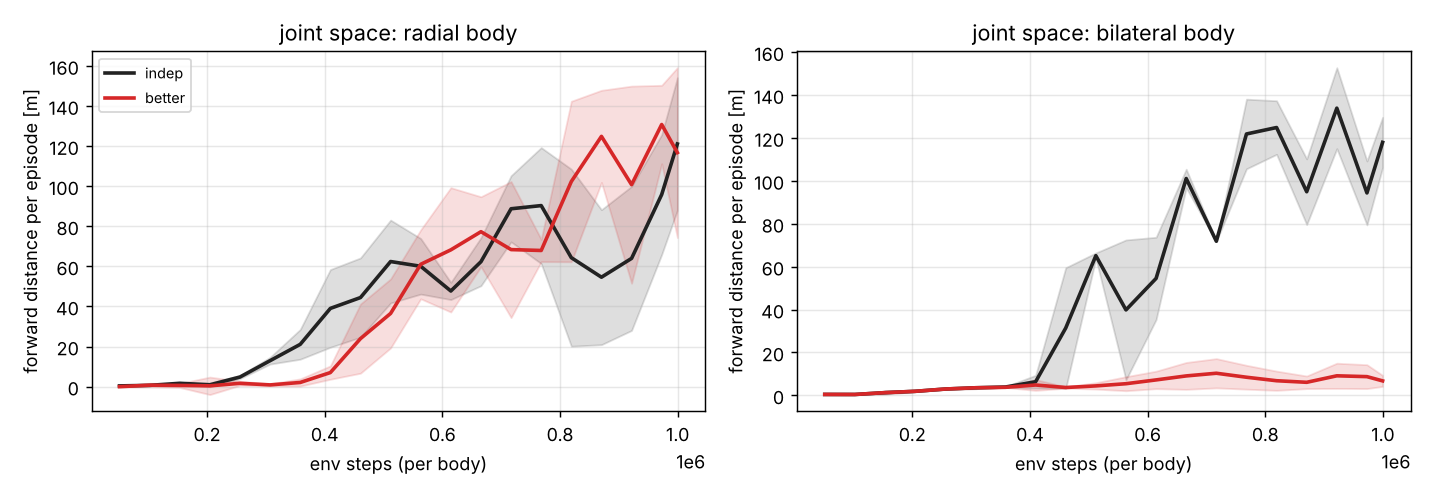
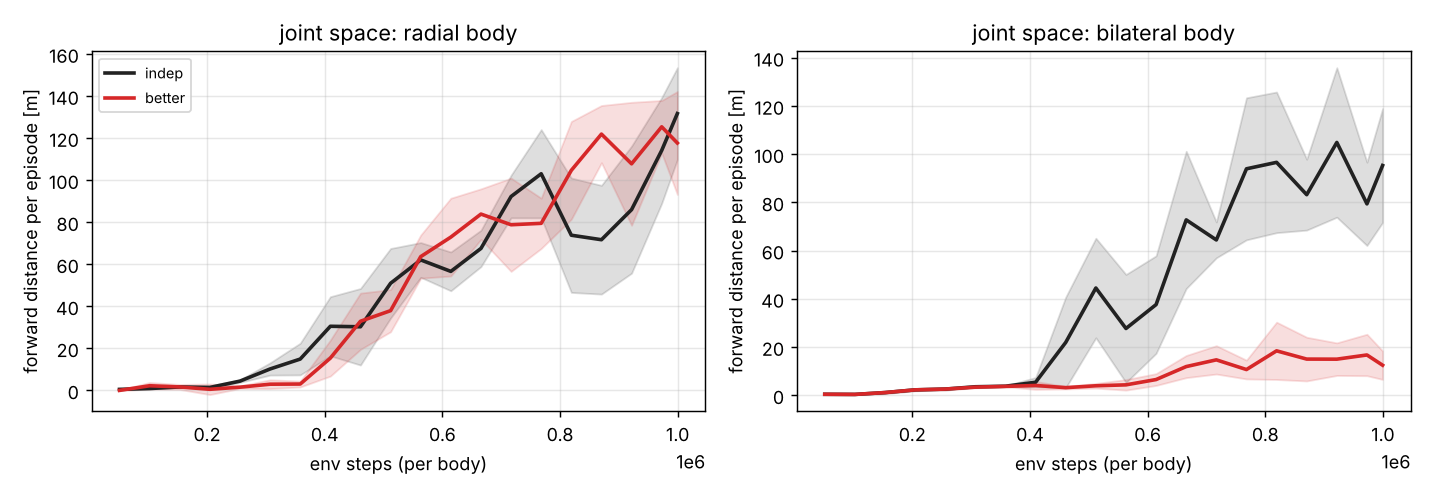
Add remaining joint-space control runs to cross-morphology results
Claude-Session: https://claude.ai/code/session_017tLUTj5KzX1ALzFFbwae6B

diff --git a/experiments/dual_policy/results_xmorph.md b/experiments/dual_policy/results_xmorph.md
@@ -13,5 +13,5 @@
 
 | mode | n | radial eval | radial dx [m] | bilateral eval | bilateral dx [m] | radial teaches | bilateral policy on radial body dx |
 |---|---|---|---|---|---|---|---|
-| indep | 2 | 2892.4 ± 567.0 | 121.1 ± 33.1 | 2737.7 ± 98.0 | 118.0 ± 11.7 | 0% | 0.4 ± 0.4 |
-| better | 2 | 2834.6 ± 905.6 | 116.8 ± 42.4 | 853.3 ± 207.2 | 6.8 ± 2.6 | 64% | 26.9 ± 26.8 |
+| indep | 3 | 3101.1 ± 388.2 | 131.7 ± 21.8 | 2326.6 ± 415.0 | 95.3 ± 23.6 | 0% | 0.7 ± 0.4 |
+| better | 3 | 2916.2 ± 529.2 | 117.7 ± 24.5 | 1004.4 ± 192.8 | 12.5 ± 5.9 | 66% | 19.3 ± 17.3 |
